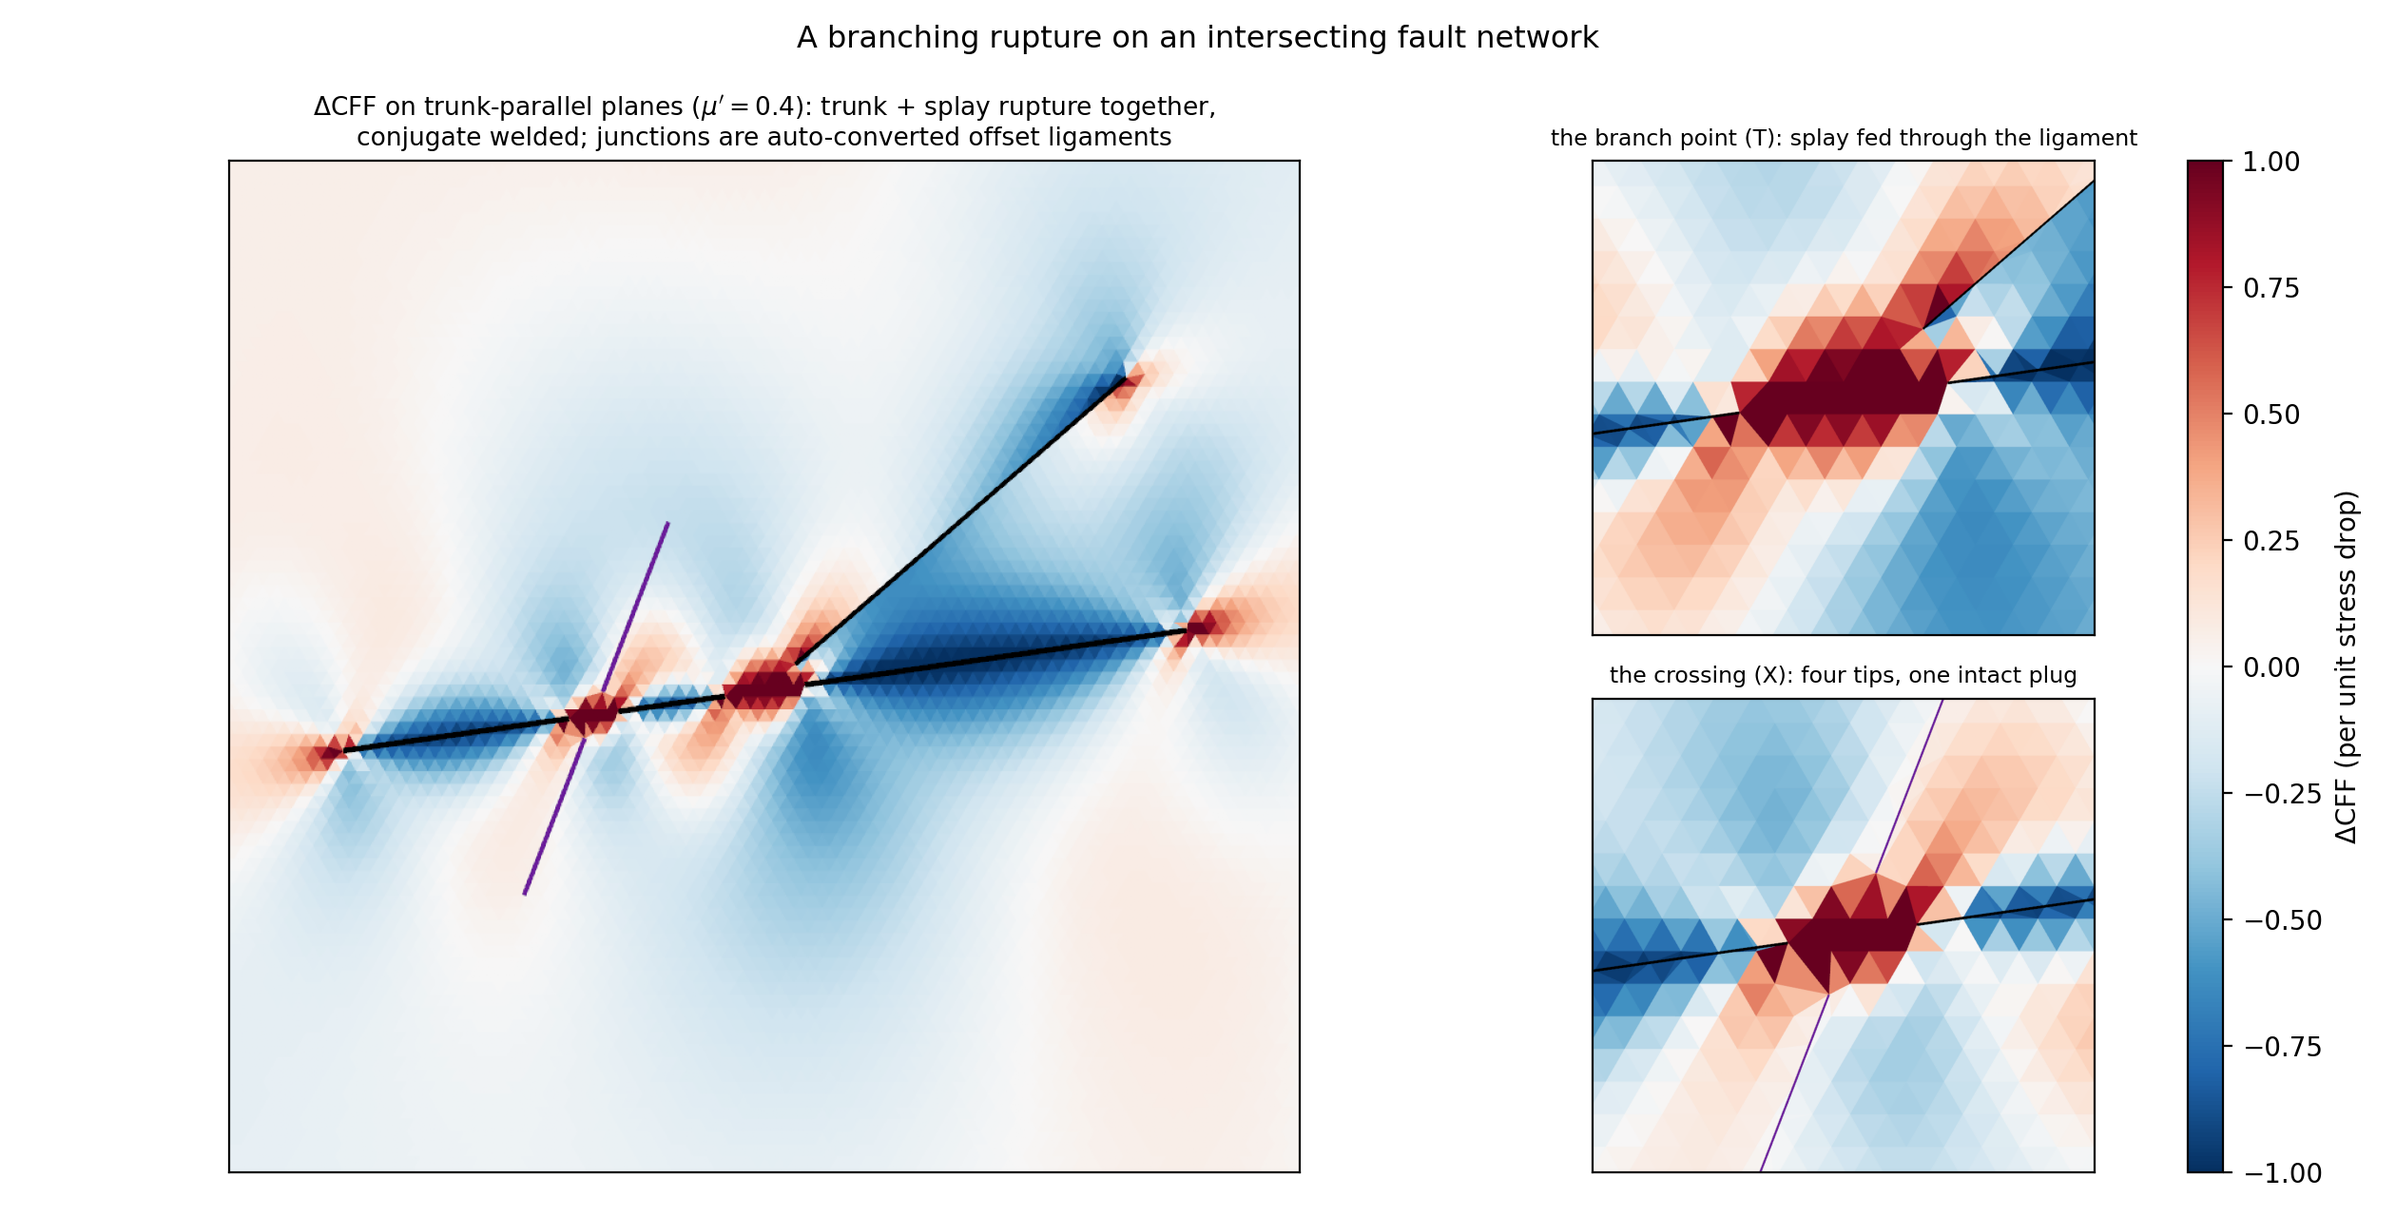
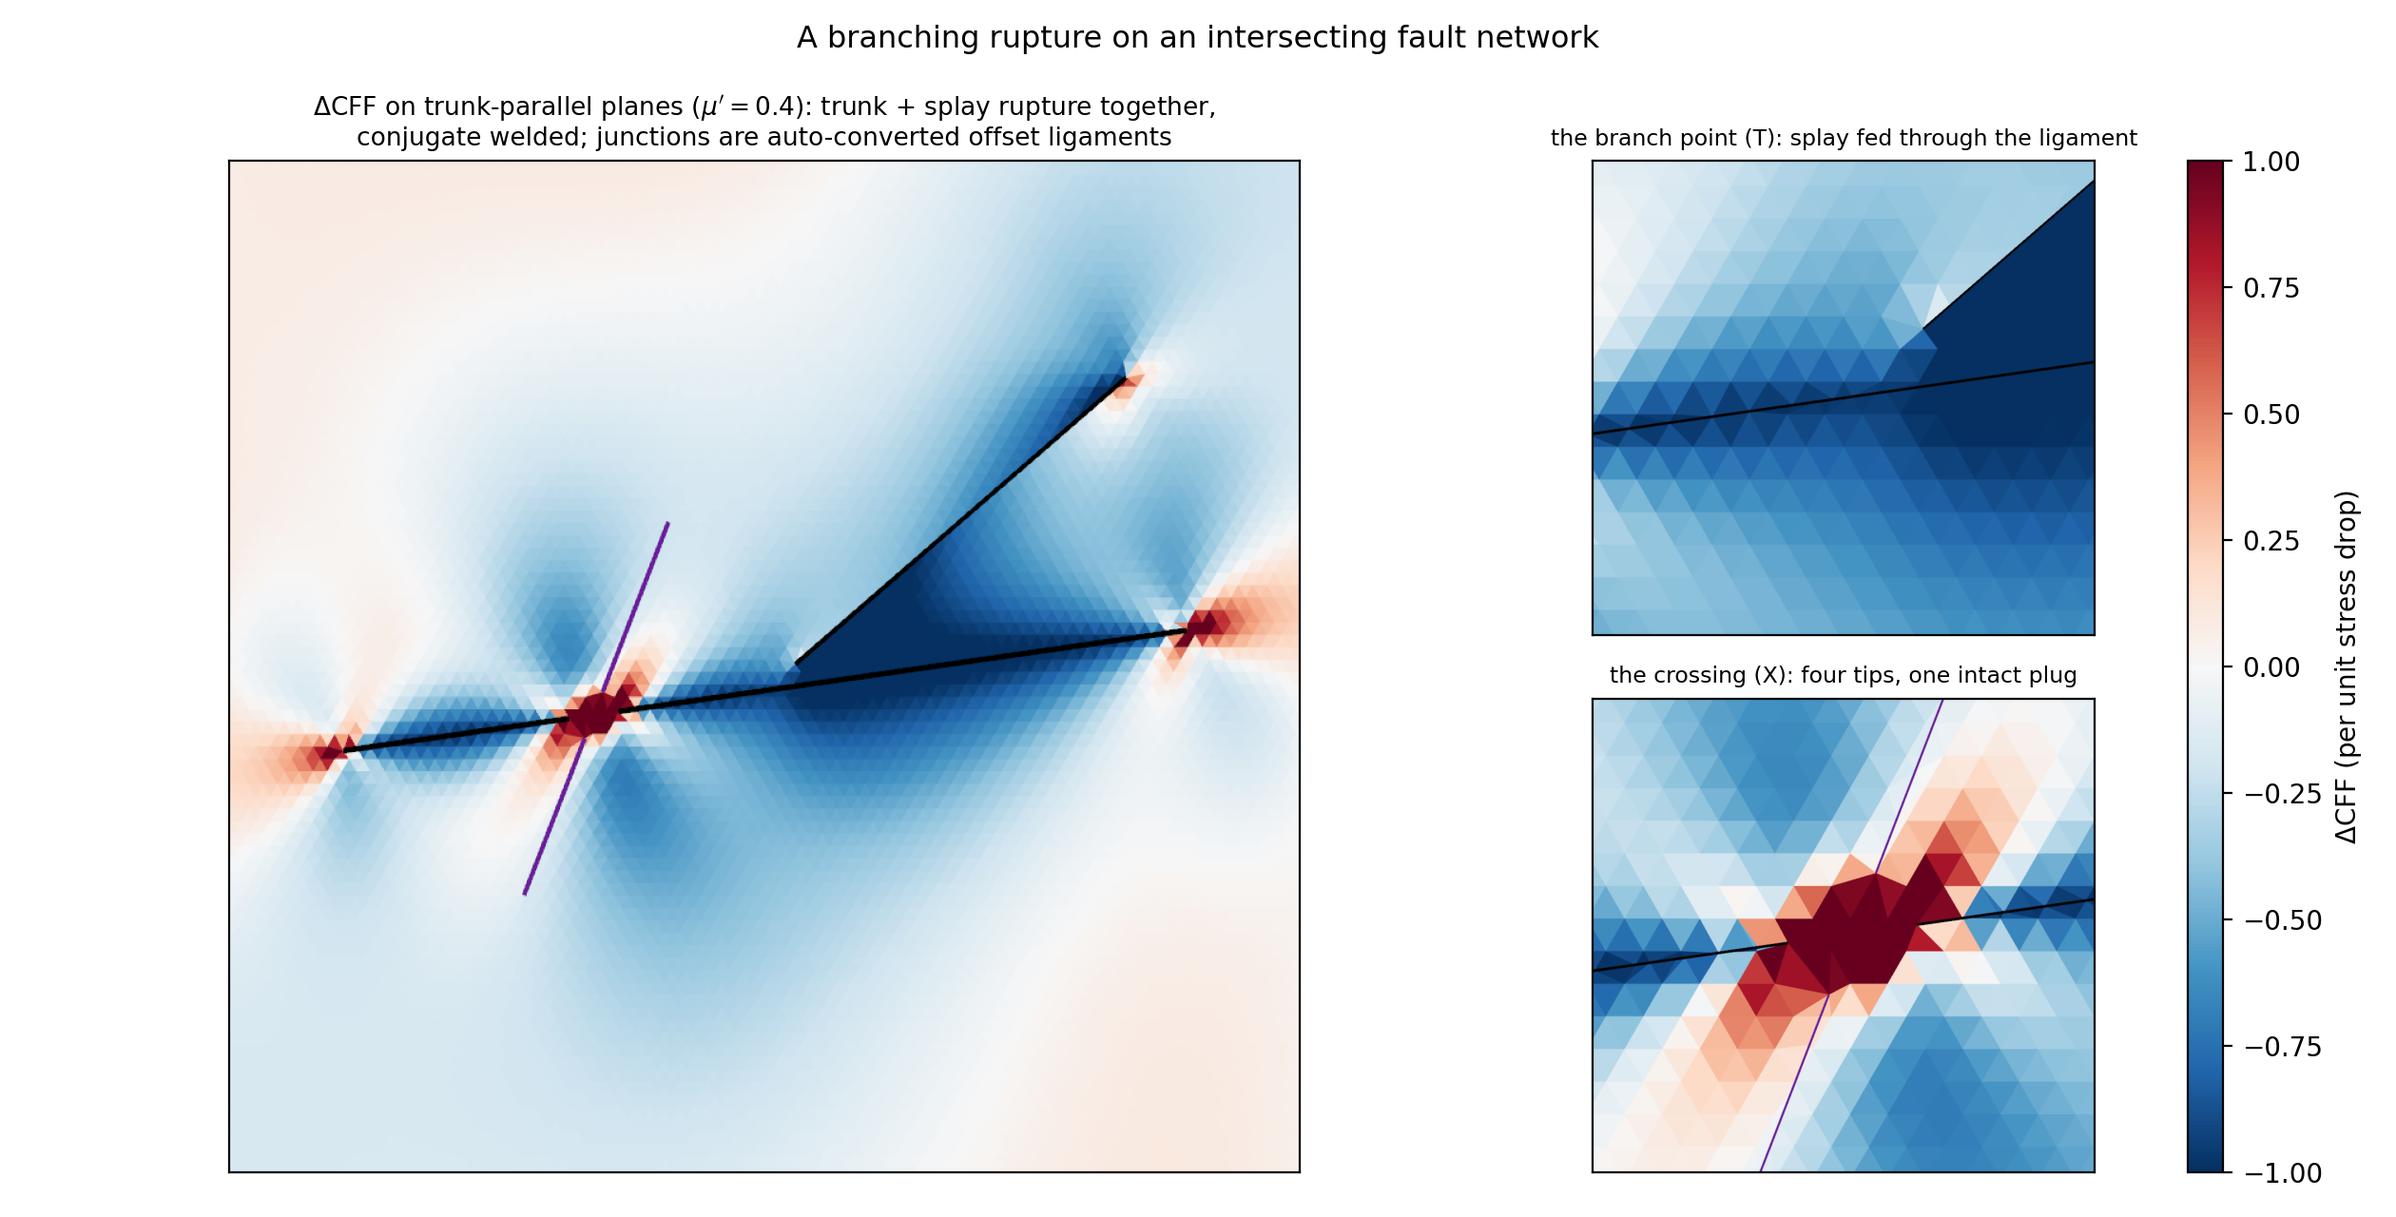
Junction policy fixed and made explicit; the interruption cost measured
prepare_fault_network was cutting the through-going trace at T
abutments, contradicting its own documentation (the trunk in the
branching example was interrupted twice). Now: a T abutment trims only
the abutting end; X crossings cut both traces by default; and
through=[names] declares MASTER faults that stay continuous even at
crossings (the other trace yields on both sides; two masters crossing
is a hard error). Tests updated to the corrected contract.

The cost of interrupting a fault is now measured, not guessed
(branching_compare.py, on the teaching page): with the trunk
through-going its peak slip is 0.2590 — slightly MORE than the
isolated trunk's 0.2558, because the slipping splay feeds it; cut at
the crossing it drops to 0.1963 (about a quarter forfeited) and is
pinned at the junction plug, but the profiles converge away from it —
an interruption's reach is the segment scale, not the system scale.
The both-cut state the old defect produced was the worst of all
(0.144). branching.png regenerated under the corrected default so the
committed figure matches the code's behaviour.

Underworld development team with AI support from Claude Code

Changed region(s): [[0.1857, 0.125, 0.5262, 0.9375], [0.65, 0.125, 0.8976, 0.5312], [0.65, 0.5625, 0.8976, 0.9688]]

diff --git a/docs/advanced/figures/fault-examples/branching_compare.py b/docs/advanced/figures/fault-examples/branching_compare.py
@@ -1,0 +1,205 @@
+"""What does interrupting the trunk cost? Continuous vs cut at the
+junction, against the isolated trunk.
+
+Same network as ``branching.py`` (trunk + splay slipping, conjugate
+welded), prepared two ways:
+
+- ``through=["Trunk"]`` — the trunk is the MASTER: never cut; the
+  conjugate yields on both sides of the crossing and the splay is
+  trimmed where it abuts (T junctions never cut the through-going
+  trace).
+- default — the X crossing cuts both traces, so the trunk is
+  interrupted mid-length by the junction plug.
+
+The isolated continuous trunk (no other faults) is the reference
+profile. The comparison answers: how much slip does the interruption
+forfeit, and what does it do to the Delta CFF field?
+"""
+import os
+import time
+
+import matplotlib
+matplotlib.use("Agg")
+import matplotlib.pyplot as plt
+import numpy as np
+import pyvista as pv
+
+import underworld3 as uw
+from underworld3.meshing.surfaces import prepare_fault_network
+from underworld3.utilities import fault_contact
+
+import common
+
+pv.OFF_SCREEN = True
+D = os.path.dirname(os.path.abspath(__file__))
+MU_P = 0.4
+H = 0.012
+LIG_F = 1.5
+TREND = np.degrees(np.arctan2(0.10, 0.70))
+M_RAW = ("Trunk", np.array([[0.15, 0.45], [0.85, 0.55]]))
+S_RAW = ("Splay", np.array([[0.50, 0.50], [0.80, 0.76]]))
+C_RAW = ("Conj", np.array([[0.30, 0.33], [0.42, 0.64]]))
+T_HAT = (M_RAW[1][1] - M_RAW[1][0])
+T_HAT = T_HAT / np.linalg.norm(T_HAT)
+ETA_WELD = 200.0 * common.ETA / 0.2
+
+
+def run_case(tag, faults, weld_names, want_field):
+    child = common.base_mesh(H).add_fault(faults)
+    names = [n for n, _ in faults]
+
+    def one_state(free):
+        stokes = common.stokes_on(
+            child, common.boundary_simple_shear(child, TREND))
+        for n in names:
+            stokes.add_fault_bc(
+                0.0 if (free and n not in weld_names) else ETA_WELD,
+                boundary=n)
+        fault_contact.solve_with_fault(stokes, picard=2)
+        return stokes
+
+    t0 = time.perf_counter()
+    s1 = one_state(True)
+    # trunk slip vs GLOBAL trunk arc length, across however many pieces
+    ss, vv = [], []
+    for n in names:
+        if not n.startswith("Trunk"):
+            continue
+        coords, jumps, normals = fault_contact.fault_pair_jumps(
+            s1, n, s1._rotated_freeslip_info)
+        tang = np.column_stack([-normals[:, 1], normals[:, 0]])
+        ss.append((coords - M_RAW[1][0]) @ T_HAT)
+        vv.append(np.abs(np.einsum("ij,ij->i", jumps, tang)))
+    s_all = np.concatenate(ss)
+    v_all = np.concatenate(vv)
+    order = np.argsort(s_all)
+    profile = (s_all[order], v_all[order])
+
+    dcff_pack = None
+    if want_field:
+        def stress(stokes, tagc):
+            x, y = child.X
+            v, p = stokes.Unknowns.u, stokes.Unknowns.p
+            comps = {}
+            for cname, expr in (
+                    ("sxx", -p.sym[0] + 2 * common.ETA * v.sym[0].diff(x)),
+                    ("syy", -p.sym[0] + 2 * common.ETA * v.sym[1].diff(y)),
+                    ("sxy", common.ETA * (v.sym[0].diff(y)
+                                          + v.sym[1].diff(x)))):
+                s_var = uw.discretisation.MeshVariable(
+                    f"{cname}_{tagc}", child, 1, degree=0,
+                    continuous=False)
+                proj = uw.systems.Projection(child, s_var)
+                proj.uw_function = expr
+                proj.smoothing = 0.0
+                proj.solve()
+                row = common.split_mesh_cell_rows(child, s_var)
+                comps[cname] = np.asarray(s_var.data[:, 0])[row].copy()
+            return comps
+
+        c1 = stress(s1, "a")
+        s0 = one_state(False)
+        c0 = stress(s0, "b")
+        beta = np.radians(TREND)
+        nx, ny = -np.sin(beta), np.cos(beta)
+        tx, ty = np.cos(beta), np.sin(beta)
+
+        def resolve(c):
+            s_nn = (c["sxx"] * nx * nx + 2 * c["sxy"] * nx * ny
+                    + c["syy"] * ny * ny)
+            s_t = (c["sxx"] * tx * nx + c["sxy"] * (tx * ny + ty * nx)
+                   + c["syy"] * ty * ny)
+            return s_nn, s_t
+
+        nn0, t_0 = resolve(c0)
+        nn1, t_1 = resolve(c1)
+        dcff = np.sign(np.median(t_0)) * (t_1 - t_0) + MU_P * (nn1 - nn0)
+        pts, faces = common.split_mesh_cell_render(child)
+        fc = np.asarray(faces).reshape(-1, 4)[:, 1:]
+        cent = np.asarray(pts)[fc].mean(axis=1)
+        dcff, gauge = common.far_field_anchor(
+            cent, dcff, [p for _n, p in faults], cut=0.18)
+        print(f"[{tag}] gauge {gauge:+.4f}", flush=True)
+        dcff_pack = (pts, faces, dcff)
+
+    print(f"[{tag}] trunk peak slip {profile[1].max():.4f} "
+          f"({time.perf_counter() - t0:.1f} s)", flush=True)
+    return profile, dcff_pack, faults
+
+
+# case i: trunk through-going (master)
+prep_i, _ = prepare_fault_network(
+    [(n, p.copy()) for n, p in (M_RAW, S_RAW, C_RAW)], spacing=H,
+    ligament=LIG_F, through=["Trunk"], verbose=True)
+weld_i = [n for n, _p in prep_i if n.startswith("Conj")]
+prof_i, field_i, faults_i = run_case("through", prep_i, weld_i, True)
+
+# case ii: default — the crossing cuts the trunk
+prep_ii, _ = prepare_fault_network(
+    [(n, p.copy()) for n, p in (M_RAW, S_RAW, C_RAW)], spacing=H,
+    ligament=LIG_F, verbose=True)
+weld_ii = [n for n, _p in prep_ii if n.startswith("Conj")]
+prof_ii, field_ii, faults_ii = run_case("cut", prep_ii, weld_ii, True)
+
+# reference: the trunk alone
+prof_ref, _, _ = run_case("isolated", [("Trunk", M_RAW[1].copy())],
+                          [], False)
+
+
+def render(pack, faults, png):
+    pts, faces, dcff = pack
+    pvm = pv.PolyData(np.asarray(pts, dtype=float),
+                      faces=np.asarray(faces, dtype=np.int64))
+    pvm.cell_data["dcff"] = dcff
+    pl = pv.Plotter(off_screen=True, window_size=(900, 850))
+    pl.set_background("white")
+    pl.add_mesh(pvm, scalars="dcff", cmap="RdBu_r", clim=(-1.0, 1.0),
+                lighting=False, show_scalar_bar=False)
+    for n, p in faults:
+        line = pv.lines_from_points(
+            np.column_stack([p, np.full(len(p), 1e-3)]))
+        pl.add_mesh(line, color=("#6a1b9a" if n.startswith("Conj")
+                                 else "black"),
+                    line_width=5 if n.startswith("Trunk") else 4,
+                    lighting=False)
+    pl.view_xy()
+    pl.camera.parallel_projection = True
+    pl.camera.parallel_scale = 0.42
+    pl.camera.focal_point = (0.5, 0.52, 0.0)
+    pl.screenshot(png)
+    pl.close()
+    return png
+
+
+png_i = render(field_i, faults_i, os.path.join(D, "_bcmp_through.png"))
+png_ii = render(field_ii, faults_ii, os.path.join(D, "_bcmp_cut.png"))
+
+fig = plt.figure(figsize=(13.0, 5.4))
+gs = fig.add_gridspec(1, 4, width_ratios=[1.35, 1.0, 1.0, 0.05])
+axp = fig.add_subplot(gs[0, 0])
+axp.plot(*prof_ref, "k--", lw=1.3, label="trunk alone (continuous)")
+axp.plot(*prof_i, "o-", ms=2.5, lw=1.0, color="#1565c0",
+         label="network, trunk through-going")
+axp.plot(*prof_ii, "o-", ms=2.5, lw=1.0, color="#e65100",
+         label="network, trunk cut at the crossing")
+axp.set_xlabel("arc length along the trunk")
+axp.set_ylabel("|slip|")
+axp.set_title("what the interruption costs the trunk", fontsize=10)
+axp.legend(fontsize=8)
+for png, col, title in ((png_i, 1, "trunk through-going"),
+                        (png_ii, 2, "trunk cut at the crossing")):
+    ax = fig.add_subplot(gs[0, col])
+    ax.imshow(plt.imread(png))
+    ax.set_xticks([])
+    ax.set_yticks([])
+    ax.set_title(title, fontsize=10)
+from matplotlib import cm, colors as mcolors
+sm = cm.ScalarMappable(norm=mcolors.Normalize(-1, 1), cmap="RdBu_r")
+cax = fig.add_subplot(gs[0, 3])
+fig.colorbar(sm, cax=cax, label=r"$\Delta$CFF")
+fig.suptitle("Continuous vs interrupted: the same network, two "
+             "junction policies", fontsize=11.5)
+fig.tight_layout()
+out = os.path.join(D, "branching-compare.png")
+fig.savefig(out, dpi=200)
+print("wrote", out, flush=True)

diff --git a/src/underworld3/meshing/surfaces.py b/src/underworld3/meshing/surfaces.py
@@ -2741,7 +2741,8 @@ def _sub_polyline(pts, s0, s1):
                       _point_at_arc(pts, s1)])
 
 
-def prepare_fault_network(faults, spacing, ligament=1.5, verbose=True):
+def prepare_fault_network(faults, spacing, ligament=1.5, through=None,
+                          verbose=True):
     """Make an imported set of 2-D fault traces splittable.
 
     The split-node pipeline refuses faults that cross or share vertices
@@ -2758,7 +2759,10 @@ def prepare_fault_network(faults, spacing, ligament=1.5, verbose=True):
     - X crossing (interiors intersect): BOTH traces are cut at the
       intersection, every cut end pulled back ``ligament * spacing``
       along its own trace; a trace cut into k pieces is renamed
-      ``<name>_1 .. <name>_k``.
+      ``<name>_1 .. <name>_k``. If exactly one of the two is listed in
+      ``through``, it stays CONTINUOUS and only the other is cut (the
+      through-going fault offsets the crossing one); two ``through``
+      faults crossing is a hard error.
     - T abutment (an endpoint of one trace on or near another's
       interior): the abutting END is pulled back; the through-going
       trace is untouched.
@@ -2780,8 +2784,13 @@ def prepare_fault_network(faults, spacing, ligament=1.5, verbose=True):
     ligament : float, optional
         Ligament size in multiples of ``spacing`` (default 1.5; the
         add_fault contract wants segments at least a cell or two apart).
+    through : iterable of str, optional
+        Names of MASTER faults: never cut at X crossings (the other
+        trace yields on both sides). T abutments never cut the
+        through-going trace regardless.
     """
     lig = float(ligament) * float(spacing)
+    through = set(through or ())
     traces = []
     for entry in faults:
         if isinstance(entry, tuple) and len(entry) == 2 \
@@ -2840,19 +2849,41 @@ def prepare_fault_network(faults, spacing, ligament=1.5, verbose=True):
                     end_i = min(arc_i, si[-1] - arc_i) < pull
                     end_j = min(arc_j, sj[-1] - arc_j) < pull
                     P = pi[a] + t * (pi[a + 1] - pi[a])
+                    # who yields: an abutting END always yields; a
+                    # through-going trace is only CUT at a genuine X
+                    # crossing, and never if it is a declared master
                     if end_i and end_j:
                         kind = "Y contact"
-                    elif end_i or end_j:
-                        kind = "T abutment"
+                        cut_i = cut_j = True
+                    elif end_i:
+                        kind = f"T abutment ({ni!r} onto {nj!r})"
+                        cut_i, cut_j = True, False
+                    elif end_j:
+                        kind = f"T abutment ({nj!r} onto {ni!r})"
+                        cut_i, cut_j = False, True
                     else:
                         kind = "X crossing"
-                    ci.append((arc_i, pull))
-                    cj.append((arc_j, pull))
+                        if ni in through and nj in through:
+                            raise ValueError(
+                                f"two through-going faults ({ni!r}, "
+                                f"{nj!r}) cross at ({P[0]:.4g}, "
+                                f"{P[1]:.4g}) — one of them must be "
+                                "allowed to yield.")
+                        cut_i = ni not in through
+                        cut_j = nj not in through
+                    if cut_i:
+                        ci.append((arc_i, pull))
+                    if cut_j:
+                        cj.append((arc_j, pull))
+                    kept_name = ni if not cut_i else (
+                        nj if not cut_j else None)
+                    kept = ("" if kept_name is None
+                            else f" {kept_name!r} kept continuous;")
                     report.append(
                         f"{kind} between {ni!r} and {nj!r} at "
-                        f"({P[0]:.4g}, {P[1]:.4g}): converted to an "
-                        f"offset junction (ligament {lig:.4g}, "
-                        f"pull-back {pull:.4g}).")
+                        f"({P[0]:.4g}, {P[1]:.4g}):{kept} offset "
+                        f"junction (ligament {lig:.4g}, pull-back "
+                        f"{pull:.4g}).")
 
     # pass 1b: NEAR-MISS abutments — an endpoint stopping just short of
     # another trace never intersects, so pass 1 cannot see it, but the

diff --git a/tests/test_0849_fault_network_prep.py b/tests/test_0849_fault_network_prep.py
@@ -47,7 +47,9 @@ def test_junctions_become_offset_form_and_split():
     assert "T abutment" in kinds
     assert "near-miss" in kinds
     names = [n for n, _ in prepared]
-    assert sum(n.startswith("A") for n in names) == 3   # cut twice
+    # the X crossing cuts A; the T abutment does NOT (the through-going
+    # trace stays continuous, only the abutter is trimmed)
+    assert sum(n.startswith("A") for n in names) == 2
     assert sum(n.startswith("B") for n in names) == 2
 
     # the promised EUCLIDEAN clearance, everywhere (this is the check
@@ -64,6 +66,26 @@ def test_junctions_become_offset_form_and_split():
     child = uw.meshing.UnstructuredSimplexBox(cellSize=H).add_fault(
         prepared)
     assert sorted(child._fault_point_pairs) == sorted(names)
+
+
+def test_through_master_stays_continuous():
+    """A declared master is never cut at an X crossing — the other
+    trace yields on both sides; two crossing masters is a hard error."""
+    A, B = RAW[0], RAW[1]
+    prepared, _rep = prepare_fault_network(
+        [(n, p.copy()) for n, p in (A, B)], spacing=H, ligament=LIG_F,
+        through=["A"], verbose=False)
+    names = [n for n, _ in prepared]
+    assert names.count("A") == 1                 # continuous
+    assert sum(n.startswith("B") for n in names) == 2
+    d = min(_poly_clearance(p, dict(prepared)["A"])
+            for n, p in prepared if n.startswith("B"))
+    assert d >= 0.95 * LIG
+
+    with pytest.raises(ValueError, match="through-going"):
+        prepare_fault_network([(n, p.copy()) for n, p in (A, B)],
+                              spacing=H, ligament=LIG_F,
+                              through=["A", "B"], verbose=False)
 
 
 def test_disjoint_traces_pass_through_unchanged():

diff --git a/docs/advanced/fault-mechanics-examples.md b/docs/advanced/fault-mechanics-examples.md
@@ -278,6 +278,23 @@ cell sizes.
 
 Script: `figures/fault-examples/branching.py`.
 
+And the question the offset form begs — what does interrupting a fault
+cost? — has a measured answer. The same network prepared two ways
+(`through=["Trunk"]` keeps the trunk continuous, so the conjugate
+yields on both sides of the crossing; the default cuts both):
+
+![Continuous vs interrupted](figures/fault-examples/branching-compare.png)
+
+The through-going trunk slips slightly *more* than it would alone (the
+slipping splay feeds it); cutting it at the crossing pins it locally
+and costs about a quarter of its peak slip — but the profiles converge
+away from the junction, so an interruption's reach is the segment
+scale, not the system scale. T abutments never cut the through-going
+trace; declare master faults with `through=` where a crossing must not
+either.
+
+Script: `figures/fault-examples/branching_compare.py`.
+
 ## What these models are, and are not
 
 For the static problem, incompressible linear elasticity and Stokes
